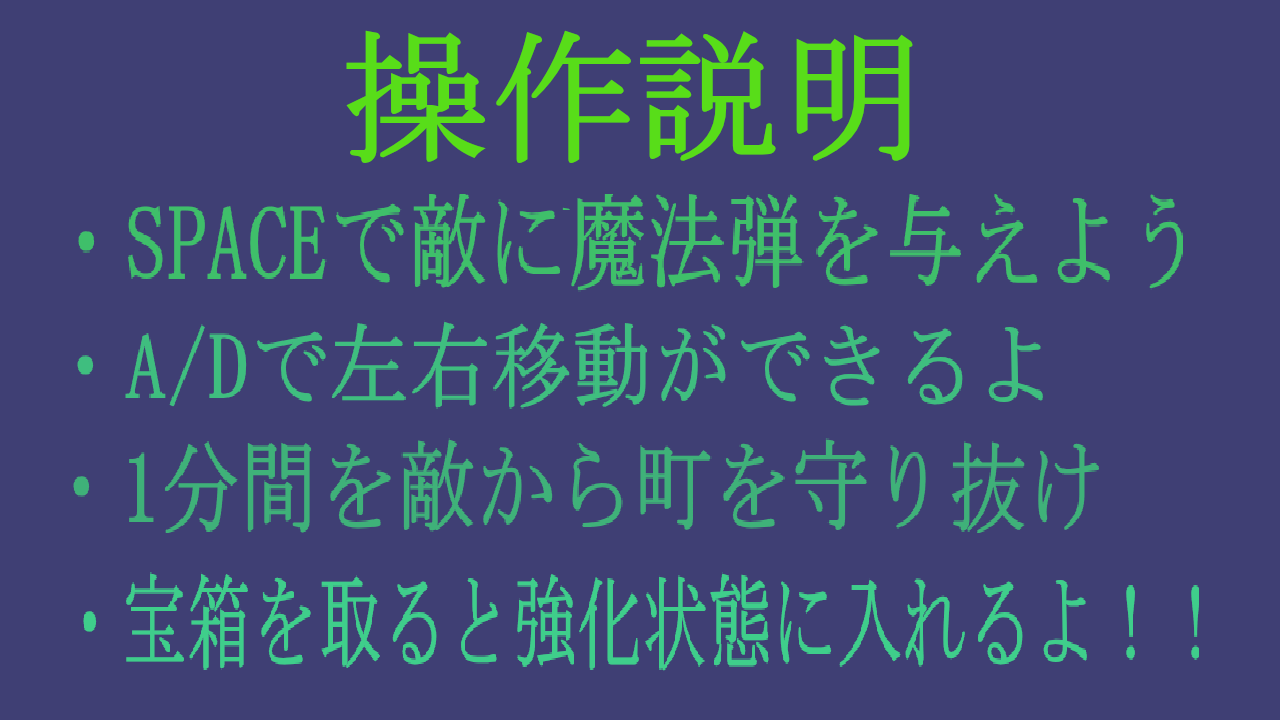
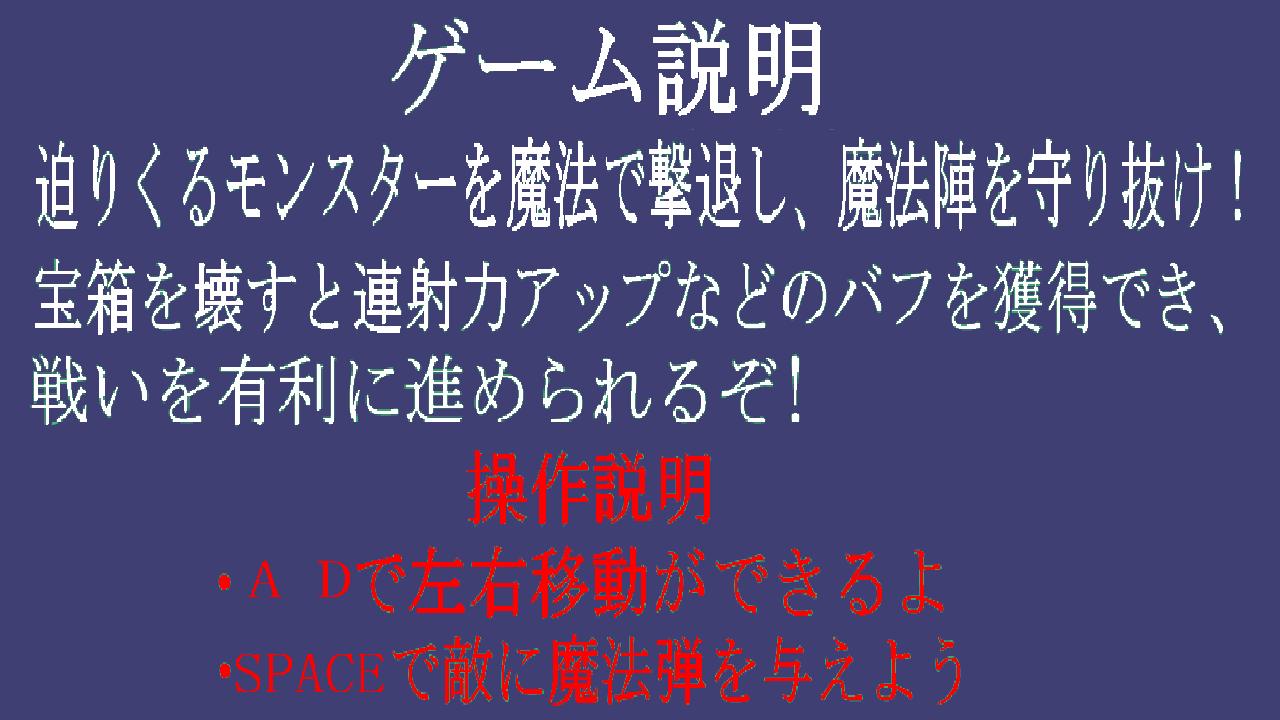
09-08

Changed region(s): [[0.0, 0.0306, 0.9688, 0.7333], [0.0625, 0.7639, 0.8438, 0.9778], [0.875, 0.825, 0.9375, 0.9167]]

diff --git a/main.cpp b/main.cpp
@@ -115,16 +115,19 @@ int WINAPI WinMain(HINSTANCE, HINSTANCE, LPSTR, int) {
 	int powerUpSpawnTimer = 0;      // 連射速度アイテム出現までのタイマー
 	int shotgunPowerUpSpawnTimer = 0; // ショットガンアイテム出現までのタイマー
 	int itemHandle = Novice::LoadTexture("./Resources/item.png");
-
 	//タイトル画面
 	int tilteHandle = Novice::LoadTexture("./Resources/Tilte.png");
-
 	//ステージ
 	int stageHandle = Novice::LoadTexture("./Resources/stage.png");
 	//ゲームクリア
-	
-
+	int clearHandle = Novice::LoadTexture("./Resources/CLEAR.png");
 	//ゲームオーバ
+	int overHandle = Novice::LoadTexture("./Resources/GAMEOVER.png");
+	//ステージ選択
+	int SETUCHandle = Novice::LoadTexture("./Resources/SELECT.png");
+	//説明
+	int Explanation = Novice::LoadTexture("./Resources/Setumei.png");
+
 
 	// プレイヤー移動範囲（左右の壁）
 	int minX = 360;
@@ -198,6 +201,12 @@ int WINAPI WinMain(HINSTANCE, HINSTANCE, LPSTR, int) {
 				scene = GAME3;
 				initGame(); // ゲーム開始時に毎回初期化
 			}
+			//説明に戻る
+			if(preKeys[DIK_BACKSPACE] == 0 && keys[DIK_BACKSPACE] != 0)
+			{
+				scene = EXPLANATION;
+			}
+
 			break;
 
 		case GAME1: {
@@ -444,6 +453,47 @@ int WINAPI WinMain(HINSTANCE, HINSTANCE, LPSTR, int) {
 
 		} break;
 
+		case GAME2:
+		{
+			// プレイヤー操作（AとDキーで左右移動）
+			if (keys[DIK_A]) { player.pos.x -= player.speed; }
+			if (keys[DIK_D]) { player.pos.x += player.speed; }
+
+			// プレイヤーの移動制限（画面外に出ないように）
+			float minPlayerX = minX + player.radius;
+			float maxPlayerX = maxX - player.radius;
+			if (player.pos.x < minPlayerX) player.pos.x = minPlayerX;
+			if (player.pos.x > maxPlayerX) player.pos.x = maxPlayerX;
+
+			// 弾発射（スペースキー）
+			if (keys[DIK_SPACE] && shotCooldown == 0) {
+				if (player.shotgunLevel == 0) {
+					// 通常弾
+					bullets.push_back({ {player.pos.x + 16, player.pos.y}, 16.0f, 15, {0.0f, -1.0f}, true });
+				} else {
+					// ショットガン（複数方向に発射）
+					float angleIncrement = 0.15f;
+					for (int i = -player.shotgunLevel; i <= player.shotgunLevel; ++i) {
+						float angle = angleIncrement * i;
+						bullets.push_back({ {player.pos.x + 16, player.pos.y}, 16.0f, 15, {sinf(angle), -cosf(angle)}, true });
+					}
+				}
+				// クールダウン設定（連射速度に影響）
+				shotCooldown = defaultShotCooldown;
+			}
+			if (shotCooldown > 0) shotCooldown--;
+
+			// 弾の移動処理
+			for (auto& b : bullets) {
+				if (b.isAlive) {
+					b.pos.x += b.direction.x * b.speed;
+					b.pos.y += b.direction.y * b.speed;
+					if (b.pos.y < 0) b.isAlive = false; // 画面外に出たら消える
+				}
+			}
+		}
+		break;
+			
 		case CLEAR: // ゲームクリア
 			if (preKeys[DIK_RETURN] == 0 && keys[DIK_RETURN] != 0) {
 				scene = TITLE;
@@ -468,17 +518,13 @@ int WINAPI WinMain(HINSTANCE, HINSTANCE, LPSTR, int) {
 		switch (scene) {
 		case TITLE:
 			Novice::DrawSprite(0, 0, tilteHandle, 1.0f, 1.0f, 0.0f, WHITE);
-			
 			break;
 		case EXPLANATION:
-
-
+			Novice::DrawSprite(0, 0, Explanation, 1.0f, 1.0f, 0.0f, WHITE);
 			break;
 		case SELECTION:
-			Novice::ScreenPrintf(400, 500, "choose a stage");
-			Novice::ScreenPrintf(400, 520, "press 1 to start ");
-			Novice::ScreenPrintf(400, 540, "press 2 to start ");
-			Novice::ScreenPrintf(400, 560, "press 3 to start");
+			Novice::DrawSprite(0,0,SETUCHandle,1.0f,1.0f,0.0f,WHITE);
+
 			break;
 
 
@@ -529,21 +575,34 @@ int WINAPI WinMain(HINSTANCE, HINSTANCE, LPSTR, int) {
 
 		case GAME2://ステージ２
 
+			//ステージ
+			Novice::DrawSprite(0, 0, stageHandle, 1.0f, 1.0f, 0.0f, WHITE);
+
+			//// 防衛ライン
+			//Novice::DrawLine(0, kWindowHeight - 200, kWindowWidth, kWindowHeight - 200, WHITE);
+			// プレイヤー描画
+			Novice::DrawSprite((int)player.pos.x, (int)player.pos.y, playerHandle, 1.0f, 1.0f, 0.0f, WHITE);
+			// 弾描画
+			for (auto& b : bullets) {
+				if (b.isAlive) {
+					Novice::DrawSprite((int)b.pos.x, (int)b.pos.y, mahoudanHandle, 1.0f, 1.0f, 0.0f, WHITE);
+				}
+			}
+
+
 			break;
 		case GAME3://ステージ３
 
 			break;
 
 		case CLEAR:
-			Novice::ScreenPrintf(500, 400, "CLEAR!");
+			Novice::DrawSprite(0, 0, clearHandle, 1.0f, 1.0f, 0.0f, WHITE);
 			Novice::ScreenPrintf(500, 450, "Clear Time: %d:%02d", elapsedMinutes, elapsedSeconds);
-			Novice::ScreenPrintf(500, 500, "Press ENTER to return to title");
 			break;
 
 		case OVER:
-			Novice::ScreenPrintf(500, 400, "GAME OVER");
+			Novice::DrawSprite(0, 0, overHandle, 1.0f, 1.0f, 0.0f, WHITE);
 			Novice::ScreenPrintf(500, 450, "Time: %d:%02d", elapsedMinutes, elapsedSeconds);
-			Novice::ScreenPrintf(500, 500, "Press ENTER to return to title");
 			break;
 		}
 
